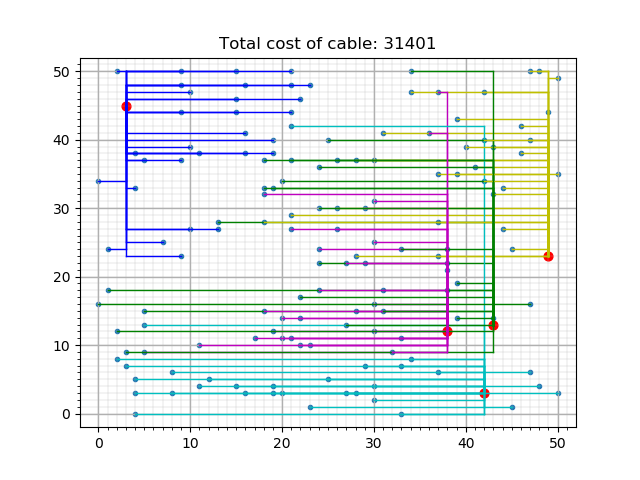
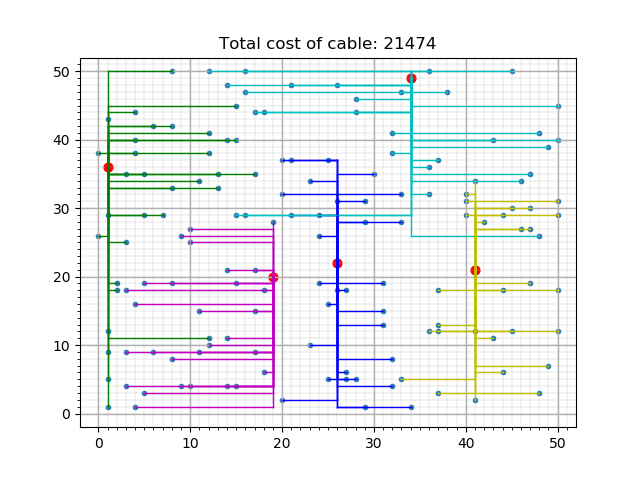
tussentijds plotten doet het nu

Changed region(s): [[0.1562, 0.0625, 0.875, 0.875]]

diff --git a/scripts/smartgrid.py b/scripts/smartgrid.py
@@ -13,16 +13,27 @@ import operator
 from pathlib import Path
 
 # nog aanpassen als we meerdere algoritmes en/of eigen wijken gaan maken
+# en voor tussenplots, die maken het algorimte een stuk slomer
 # Validates user input and gives instructions if it's wrong
-if len(sys.argv) is not 2:
-    print("Usage: python smargrid.py <wijknummer>")
-    sys.exit(2)
-elif int(sys.argv[1]) not in [1, 2, 3]:
-    print("Usage: python smargrid.py <wijknummer>\nwijknummer should be 1,2 or 3")
-    sys.exit(2)
+plot = False
 
-INPUT = sys.argv[1]
-
+if len(sys.argv) not in [2, 3]:
+        print("Usage: python smargrid.py <wijknummer> <plot>\nwijknummer should be 1,2 or 3")
+        sys.exit(2)
+elif len(sys.argv) is 2:
+    if int(sys.argv[1]) not in [1, 2, 3]:
+        print("Usage: python smargrid.py <wijknummer>\nwijknummer should be 1,2 or 3")
+        sys.exit(2)
+    else:
+        INPUT = sys.argv[1]
+elif len(sys.argv) is 3:
+    if int(sys.argv[1]) not in [1, 2, 3] or sys.argv[2] != "plot":
+        print("Usage: python smargrid.py <wijknummer>\nwijknummer should be 1,2 or 3")
+        print("If you want plots type\n python smargrid.py <wijknummer> plot")
+        sys.exit(2)
+    else:
+        INPUT = sys.argv[1]
+        plot = True
 
 class Smartgrid(object):
     def __init__(self):
@@ -30,7 +41,6 @@ class Smartgrid(object):
         self.batteries = self.load_batteries()
         self.link_houses()
         self.optimize()
-        self.plot_houses()
 
 
     def load_houses(self):
@@ -100,7 +110,7 @@ class Smartgrid(object):
         # return dict to INIT
         return batteries
 
-    def plot_houses(self):
+    def plot_houses(self, changes):
         """
         Plots houses, batteries and cables. Also calculates the total
         cost of the cable
@@ -140,7 +150,7 @@ class Smartgrid(object):
 
             # calculate line cost
             total += (abs(x_batt - x_house) + abs(y_batt - y_house)) * 9
-            
+
         print(f"Total cost of cable: {total}")
         plt.title(f"Total cost of cable: {total}")
 
@@ -153,7 +163,7 @@ class Smartgrid(object):
         #     plt.text(x, y, f"{count}")
         #     count += 1
         # plt.show()
-        plt.savefig('plot.png')
+        plt.savefig(f'plot{changes}.png')
 
 
     def link_houses(self):
@@ -256,7 +266,10 @@ class Smartgrid(object):
                 curr_batt = house.link
                 changes += 1
                 self.swap_houses(house, curr_batt, to_batt, changes)
+                if (changes % 5) is 0 and plot:
+                    self.plot_houses(changes)
                 break
+        self.plot_houses("FINAL")
         for i in self.batteries:
             print(self.batteries[i].filled())
             print(f"{self.batteries[i].x}/{self.batteries[i].y}")
